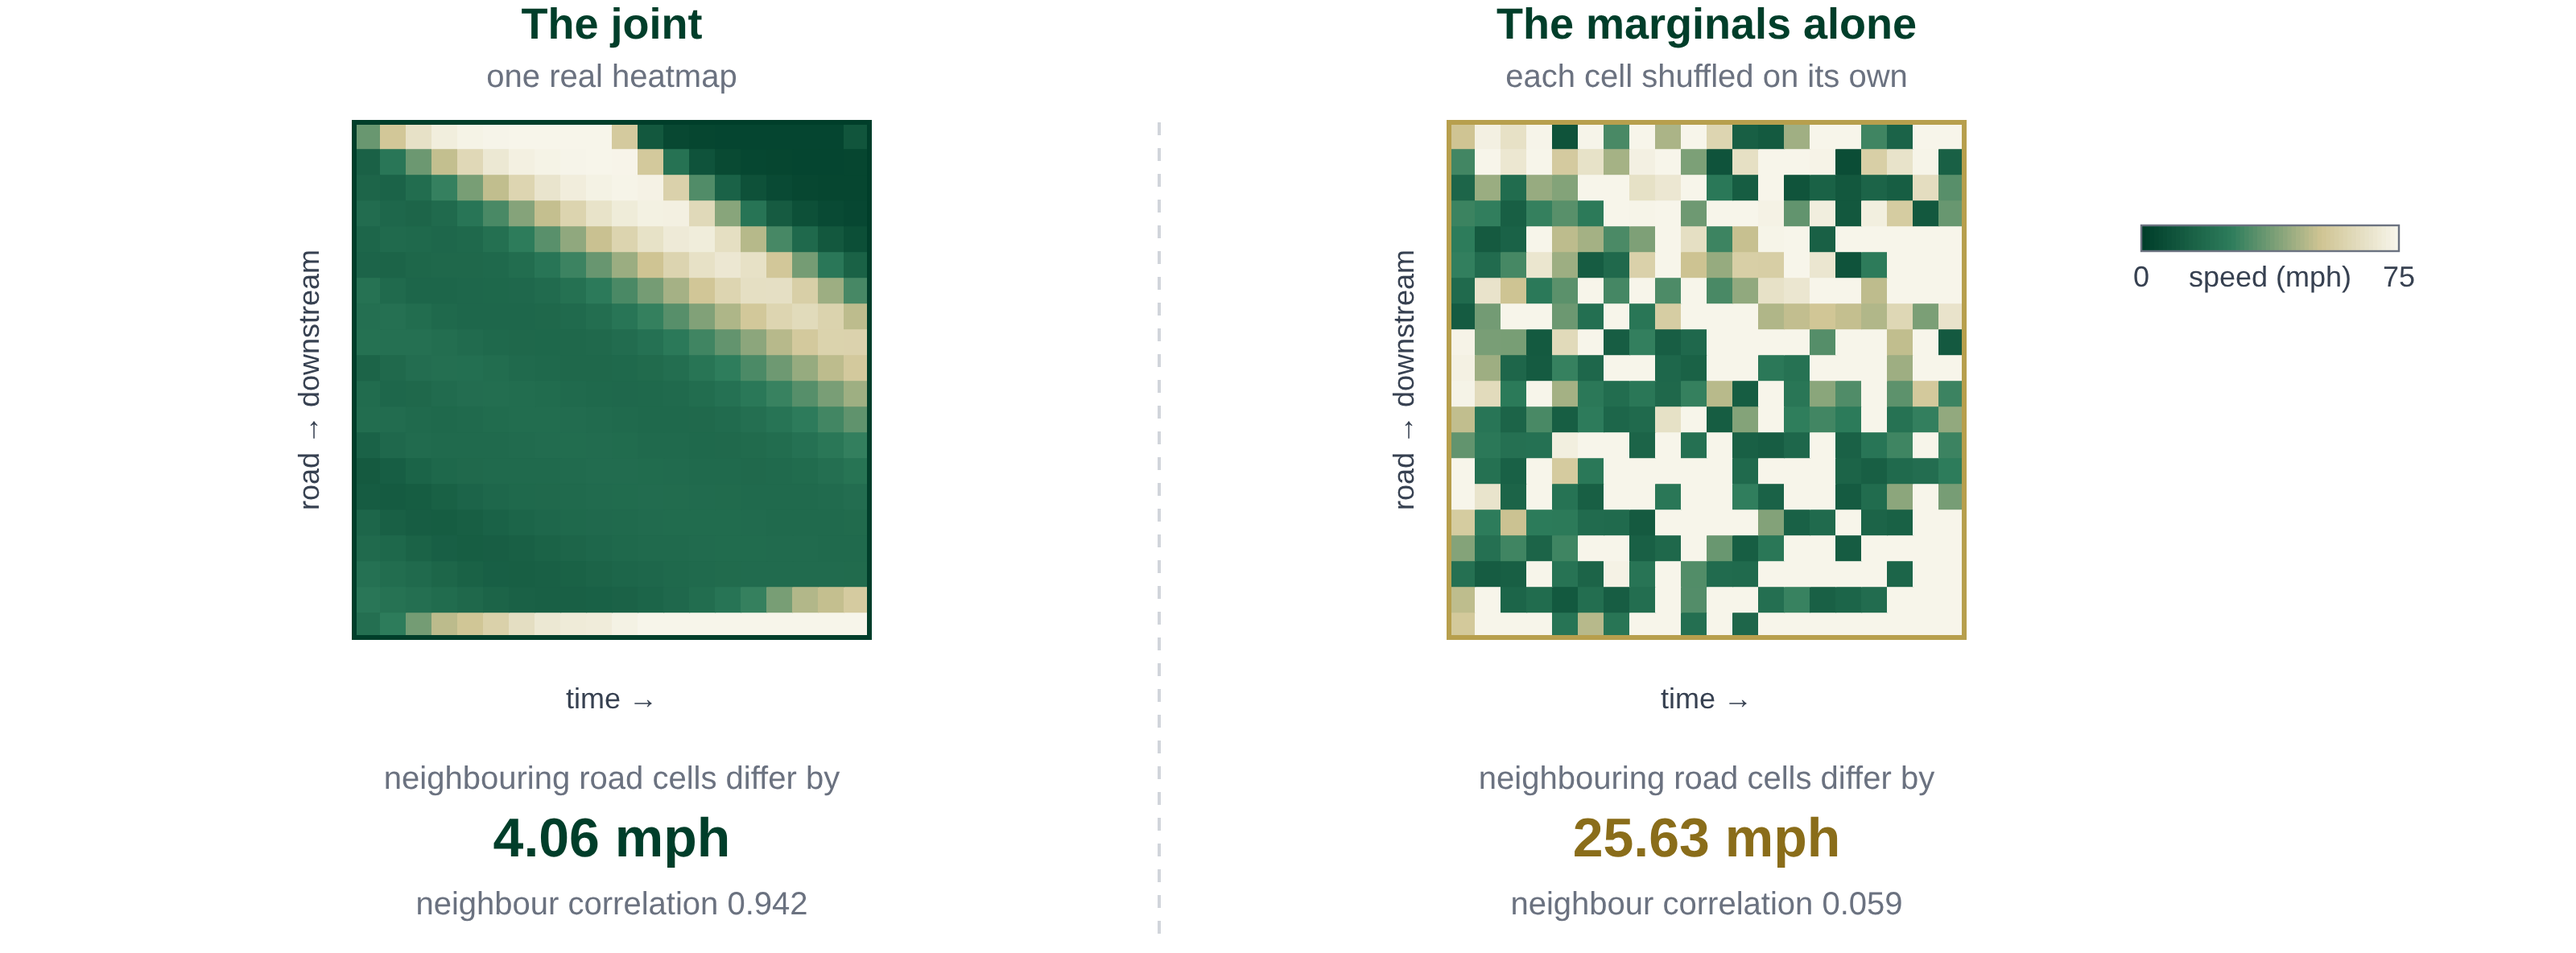
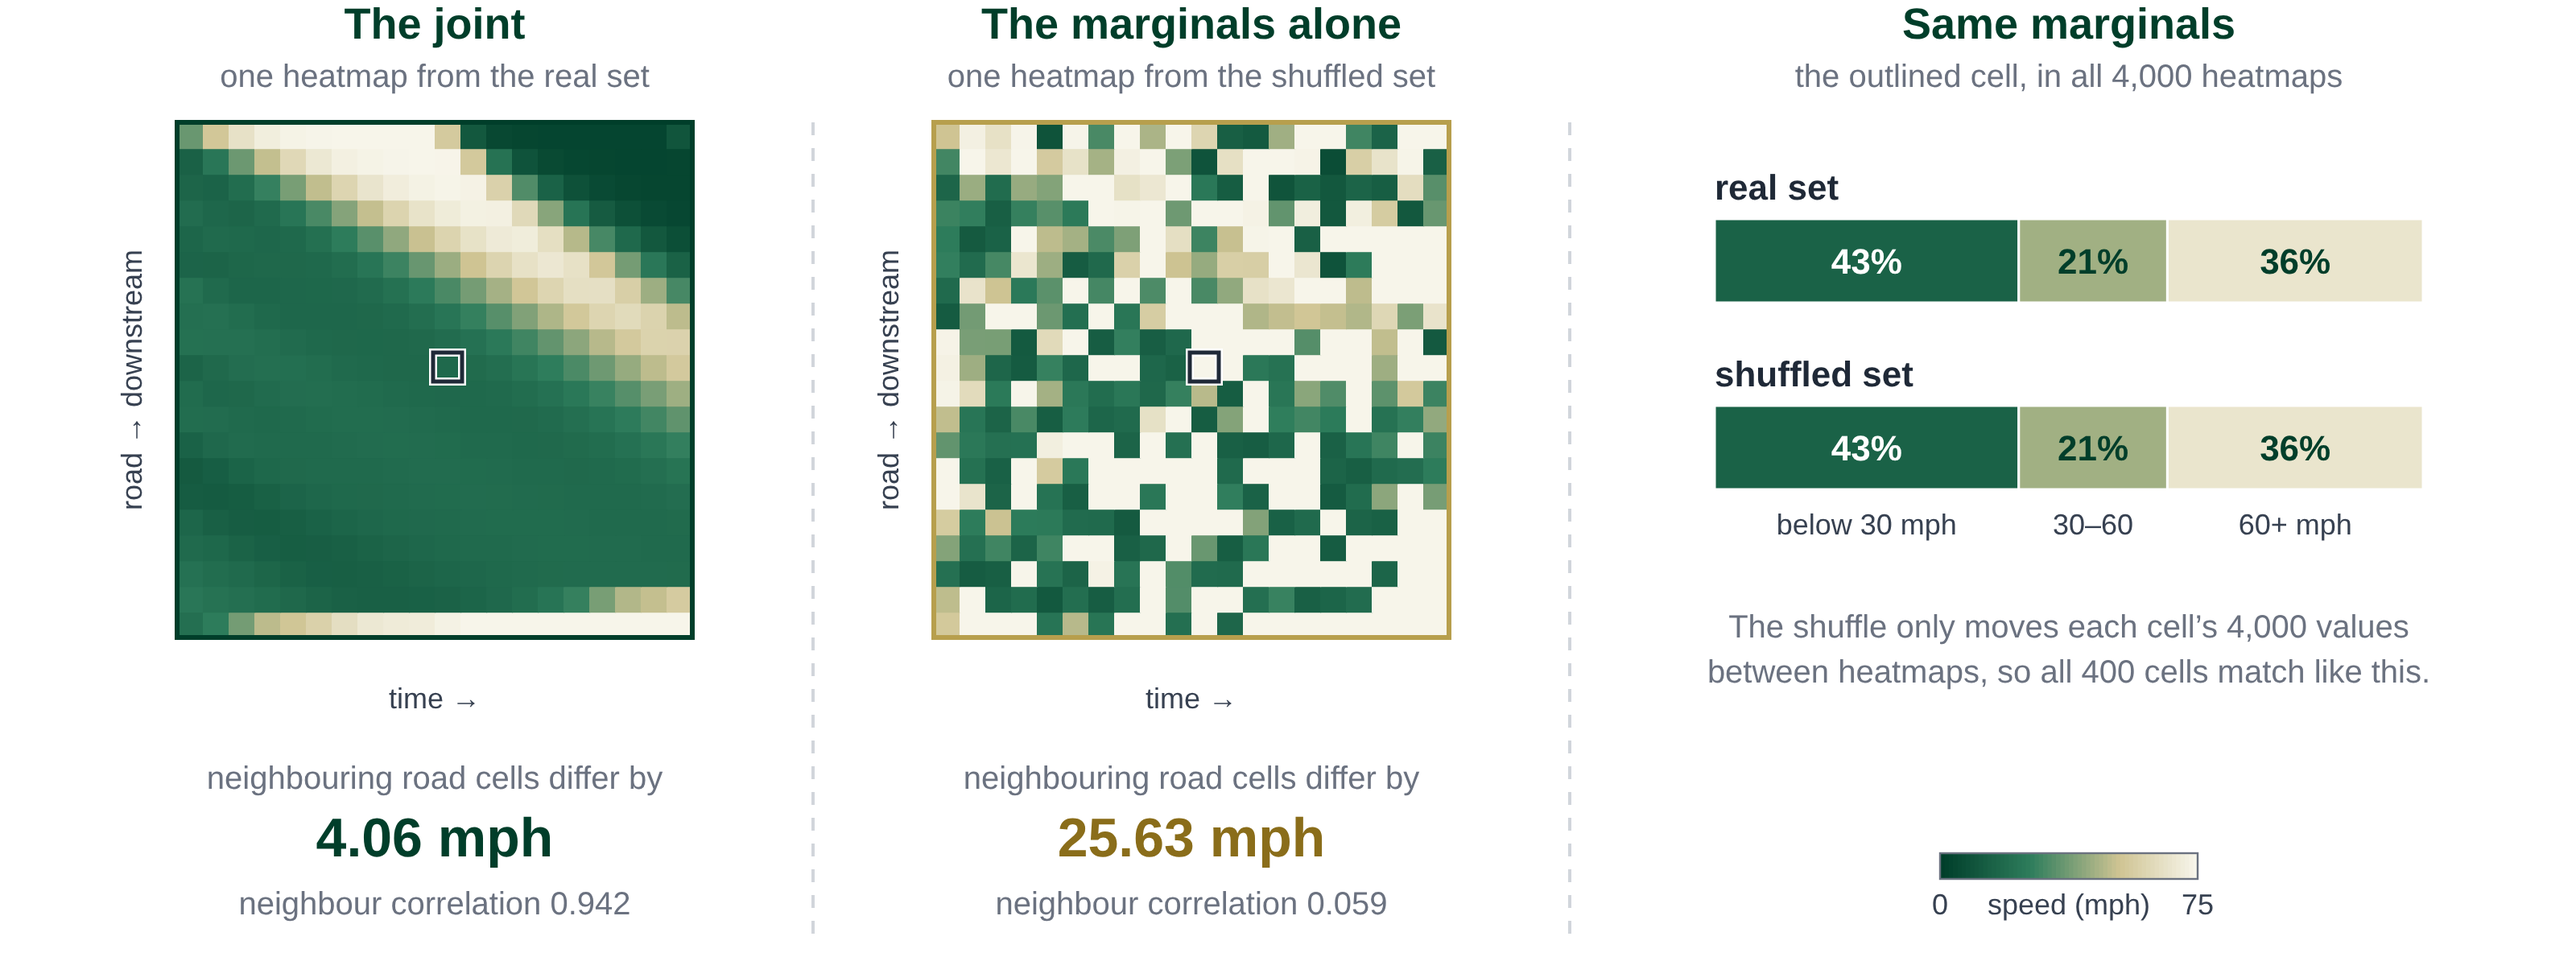
Module 3.1: make "same marginals" visible in the joint-vs-marginals figure
Each panel is now labelled as one heatmap from its set, one cell is
outlined in both, and a third panel shows that cell's speeds across all
4,000 heatmaps (below 30 / 30-60 / 60+ mph: 43% / 21% / 36%) are the
same in the real and the shuffled set. The 3.1 text defines the marginal
on that example and explains why the two pictures do not share a colour
mix; 3.2 now points to the "shuffled panel".

Claude-Session: https://claude.ai/code/session_01SKyuuiC1PMjUS2R2GAYPko

diff --git a/module3/notes1-producing.md b/module3/notes1-producing.md
@@ -85,35 +85,50 @@ times the size of one heatmap.
 ## What "realistic" means: the joint
 
 ```{figure} ../_static/figures/GenM_Joint_vs_Marginals.png
-:alt: Left, a real CTM heatmap with a clear queue front. Right, the same 400 cells each drawn independently from their own distribution, which looks like noise.
+:alt: Left, one real CTM heatmap with a clear queue front. Middle, one heatmap from the shuffled set, which looks like noise. Right, bars for one outlined cell across all 4,000 heatmaps, identical in the real and the shuffled set.
 :width: 100%
 
-Each cell on the right has exactly the right distribution of speeds. The shockwave is gone.
+Each panel is one heatmap from its set. The bars follow the outlined cell through all 4,000 heatmaps of each set: the same spread of speeds in both. The shockwave is gone all the same.
 ```
 
 Here is an experiment that says what a generative model must get right. Take the 4,000
-heatmaps. For each of the 400 cells separately, shuffle that cell's value across the
-4,000 heatmaps. A shuffle keeps every cell's own spread of speeds exactly: each cell's average and standard deviation are
-unchanged, apart from computer rounding. What it destroys is every relationship between cells.
+heatmaps. For each of the 400 cells separately, take that cell's 4,000 values and
+deal them out to the 4,000 heatmaps in random order. Nothing is added or lost: every cell
+ends up holding exactly the same 4,000 speeds it had before, only in different heatmaps.
+What the shuffle destroys is every relationship between cells, because neighbouring cells in a
+shuffled heatmap now come from different simulation runs.
 
-The result, on the right of the figure, is not a traffic state. In the real heatmaps, road cells next
+The result, in the middle of the figure, is not a traffic state. In the real heatmaps, road cells next
 to each other differ by **4.06 mph** on average and are correlated at
 0.942. In the shuffled ones they differ by **25.63 mph** and are
 correlated at 0.059: free flow sits next to a jam with no front between them.
 
-The distribution of a single cell is called its *marginal*. The distribution of all 400
+Now follow one cell, the outlined one, through all 4,000 heatmaps (right of the figure).
+In the real set it is below 30 mph in 43% of them, between 30 and
+60 mph in 21%, and 60 mph or faster in 36%. In the shuffled
+set the numbers are identical, because the shuffle only moved its values between heatmaps. The same
+holds for every one of the 400 cells. This spread of one cell's speeds across the whole set is
+called the cell's *marginal*, so the real and the shuffled set have the same 400 marginals.
+
+One thing that trips people up: the two heatmaps on the left do not even have the same mix of colours.
+They should not. A cell's spread of speeds belongs to the whole set of 4,000 heatmaps, not
+to any one picture. The real heatmap shown was picked for its wide speed range and is mostly jammed
+(71% of its cells are below 30 mph). A random heatmap from the shuffled set looks
+like the set as a whole, where 45% of all cells are at 60 mph or faster.
+
+The distribution of all 400
 cells together, including how they move together, is the *joint*. The experiment shows that
 everything a traffic engineer cares about lives in the joint. That queues grow backwards at a finite
 wave speed, that a front is continuous, that a cell looks like its neighbours a moment earlier: none of
 it is visible in any single cell. So when we say *generating a heatmap is drawing a sample from a joint
 distribution*, the word "joint" carries the whole idea. A model that matches the marginals and nothing
-else produces the right-hand panel.
+else produces the middle panel.
 
 :::{admonition} Going deeper &mdash; how big is the joint?
 :class: dropdown
 Round each speed to one of 25 bins 3 mph wide. A heatmap is then one choice out of $25^{400}$, about
 $10^{559}$: a number with 560 digits. No table can list the probability of each one,
-and almost all of them look like the right-hand panel. A generative model has to put nearly all of its
+and almost all of them look like the shuffled panel. A generative model has to put nearly all of its
 probability on the tiny fraction that look like traffic, using a few hundred thousand weights. The four
 answers in this module are four ways of making that possible.
 :::

diff --git a/module3/notes2-autoregressive.md b/module3/notes2-autoregressive.md
@@ -126,7 +126,7 @@ models can be scored exactly, which the next sections use.
 Take logs of the chain rule. The log of a product is the sum of the logs, so
 $\log p(x) = \sum_i \log p(x_i \mid x_{<i})$. Each term is conditioned on everything before it; drop
 the conditioning and the sum becomes $\sum_i \log p(x_i)$, the marginals from section 3.1, which describes the
-right-hand panel of the joint-versus-marginals figure. Measured in bits (logs base 2), the average of
+shuffled panel of the joint-versus-marginals figure. Measured in bits (logs base 2), the average of
 $-\log_2 p(x_i \mid x_{<i})$ over cells is the *bits per cell* used below.
 :::
 
